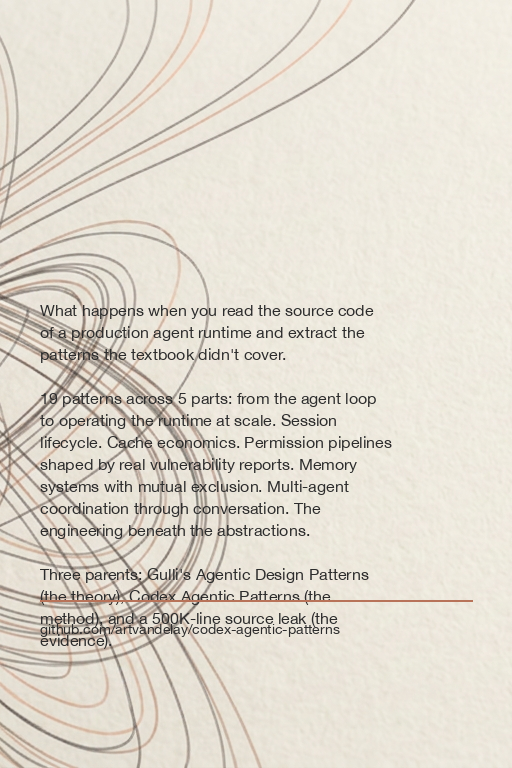
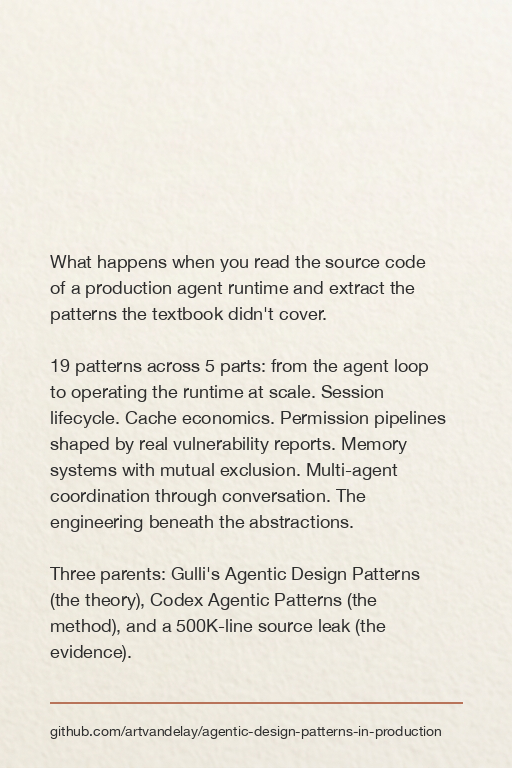
fix: redesign back cover for better readability

diff --git a/cover_art/make_back_cover_fix.py b/cover_art/make_back_cover_fix.py
@@ -1,0 +1,65 @@
+import os
+from PIL import Image, ImageDraw, ImageFont
+
+img_path = "/Users/jigar/LLM-apps/claude-code-copy/book/cover_art/Generated_image2.png"
+img = Image.open(img_path)
+
+width, height = img.size
+target_w = 512
+target_h = 768
+
+# The attractor is on the left in Generated_image2.png.
+# Let's crop the RIGHT side where it's mostly empty space so the text is legible.
+crop_x = width - target_w - 50
+img_cropped = img.crop((crop_x, 0, crop_x + target_w, target_h))
+
+draw = ImageDraw.Draw(img_cropped)
+
+try:
+    font_body = ImageFont.truetype("/System/Library/Fonts/HelveticaNeue.ttc", 18)
+    font_footer = ImageFont.truetype("/System/Library/Fonts/HelveticaNeue.ttc", 14)
+except:
+    font_body = ImageFont.load_default()
+    font_footer = ImageFont.load_default()
+
+charcoal = (44, 44, 44)
+copper = (184, 115, 89)
+
+text = """What happens when you read the source code 
+of a production agent runtime and extract the 
+patterns the textbook didn't cover.
+
+19 patterns across 5 parts: from the agent loop 
+to operating the runtime at scale. Session 
+lifecycle. Cache economics. Permission pipelines 
+shaped by real vulnerability reports. Memory 
+systems with mutual exclusion. Multi-agent 
+coordination through conversation. The 
+engineering beneath the abstractions.
+
+Three parents: Gulli's Agentic Design Patterns 
+(the theory), Codex Agentic Patterns (the 
+method), and a 500K-line source leak (the 
+evidence)."""
+
+margin_x = 50
+margin_y = 250
+
+# Draw the main text
+draw.multiline_text((margin_x, margin_y), text, font=font_body, fill=charcoal, spacing=8)
+
+# Calculate text height to place the line and footer properly
+# A rough estimate for 15 lines of text at size 18 with spacing 8 is ~400px
+# Let's use textbbox to get exact dimensions
+bbox = draw.multiline_textbbox((margin_x, margin_y), text, font=font_body, spacing=8)
+text_bottom = bbox[3]
+
+line_y = text_bottom + 40
+draw.line([(margin_x, line_y), (target_w - margin_x, line_y)], fill=copper, width=2)
+
+footer = "github.com/artvandelay/agentic-design-patterns-in-production"
+draw.text((margin_x, line_y + 20), footer, font=font_footer, fill=charcoal)
+
+out_path = "/Users/jigar/LLM-apps/claude-code-copy/book/cover_art/back-cover-portrait.png"
+img_cropped.save(out_path)
+print(f"Saved to {out_path}")